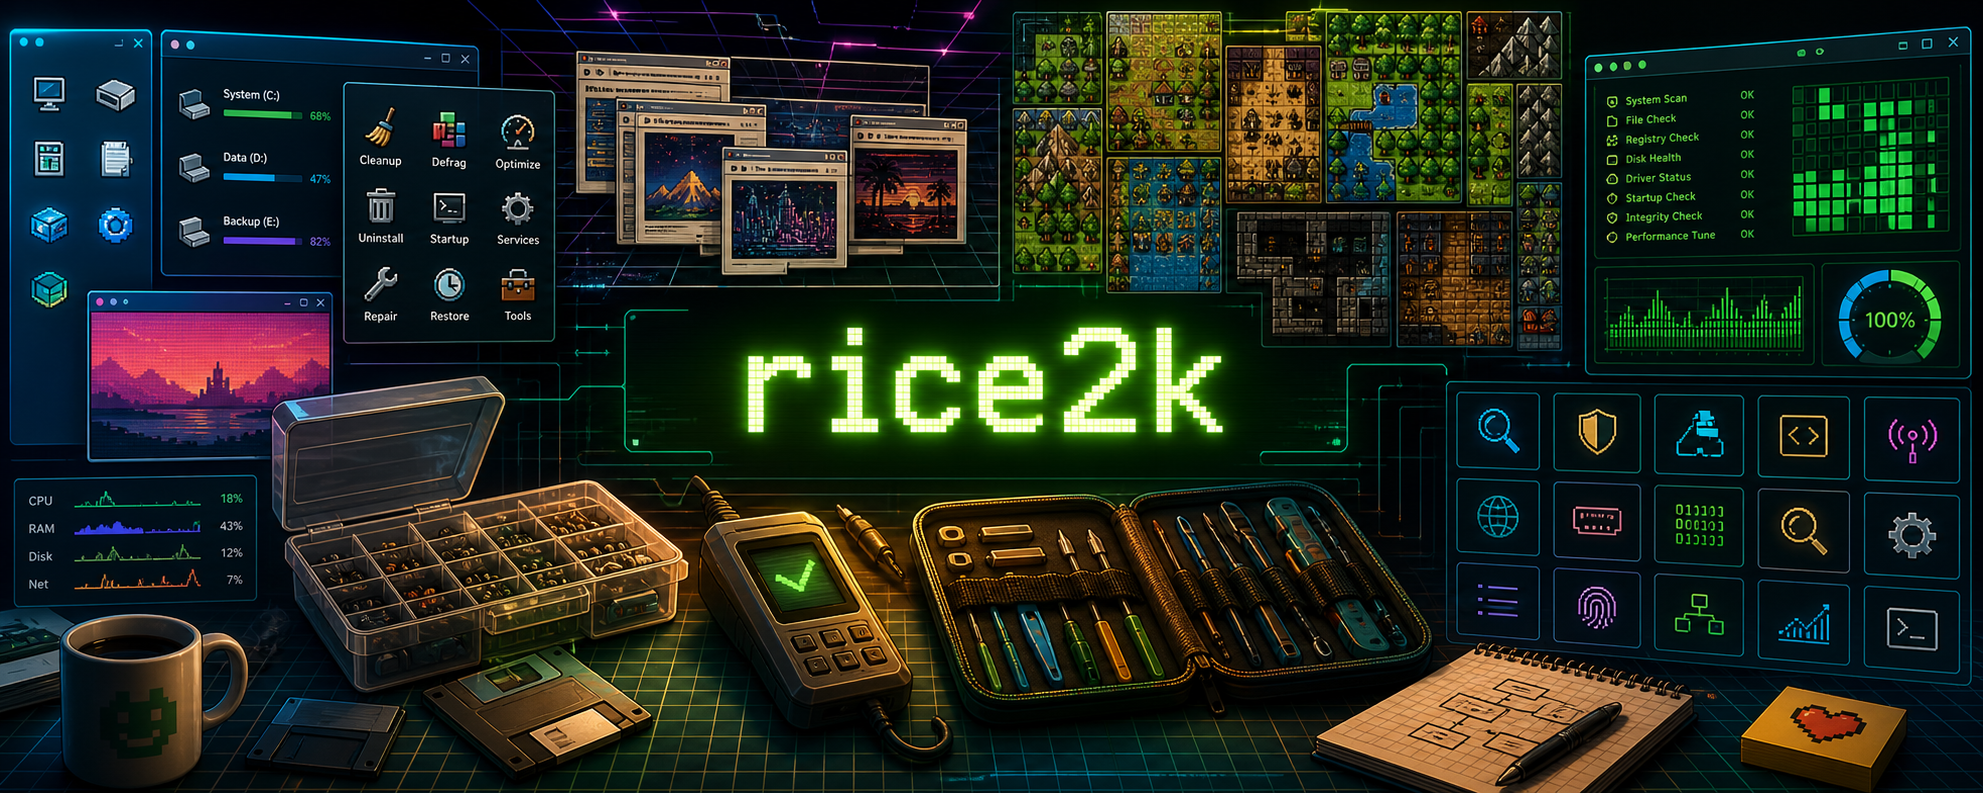
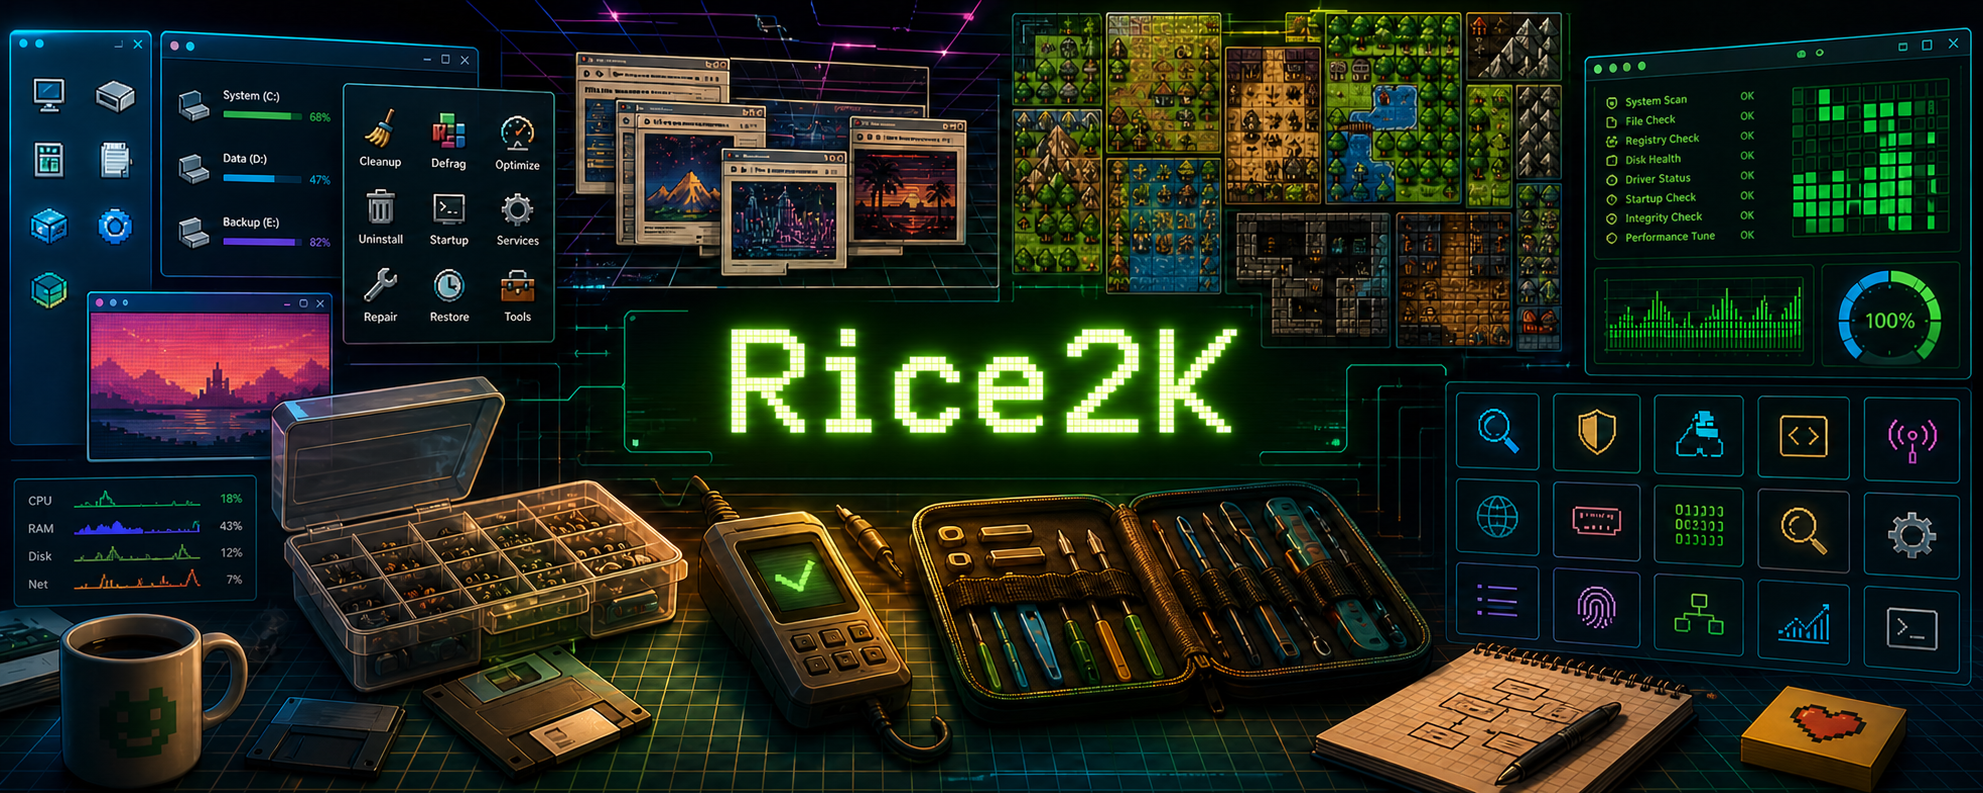
Use Rice2K profile branding

diff --git a/README.md b/README.md
@@ -1,8 +1,8 @@
 <p align="center">
-  <img src="assets/rice2k-hero.png" alt="rice2k developer profile banner showing Windows utilities, retro web archives, pixel maps, repair tools, and project dashboards" width="100%">
+  <img src="assets/rice2k-hero.png" alt="Rice2K developer profile banner showing Windows utilities, retro web archives, pixel maps, repair tools, and project dashboards" width="100%">
 </p>
 
-# Hey, I'm rice2k
+# Hey, I'm Rice2K
 
 I build useful little command centers for Windows, repair workflows, retro web preservation, GraalOnline tooling, and searchable project archives. A lot of my work lives where practical tech meets old-internet curiosity: desktop utilities, recovered resources, toolkit dashboards, and experiments that make messy folders of knowledge easier to use.
 
